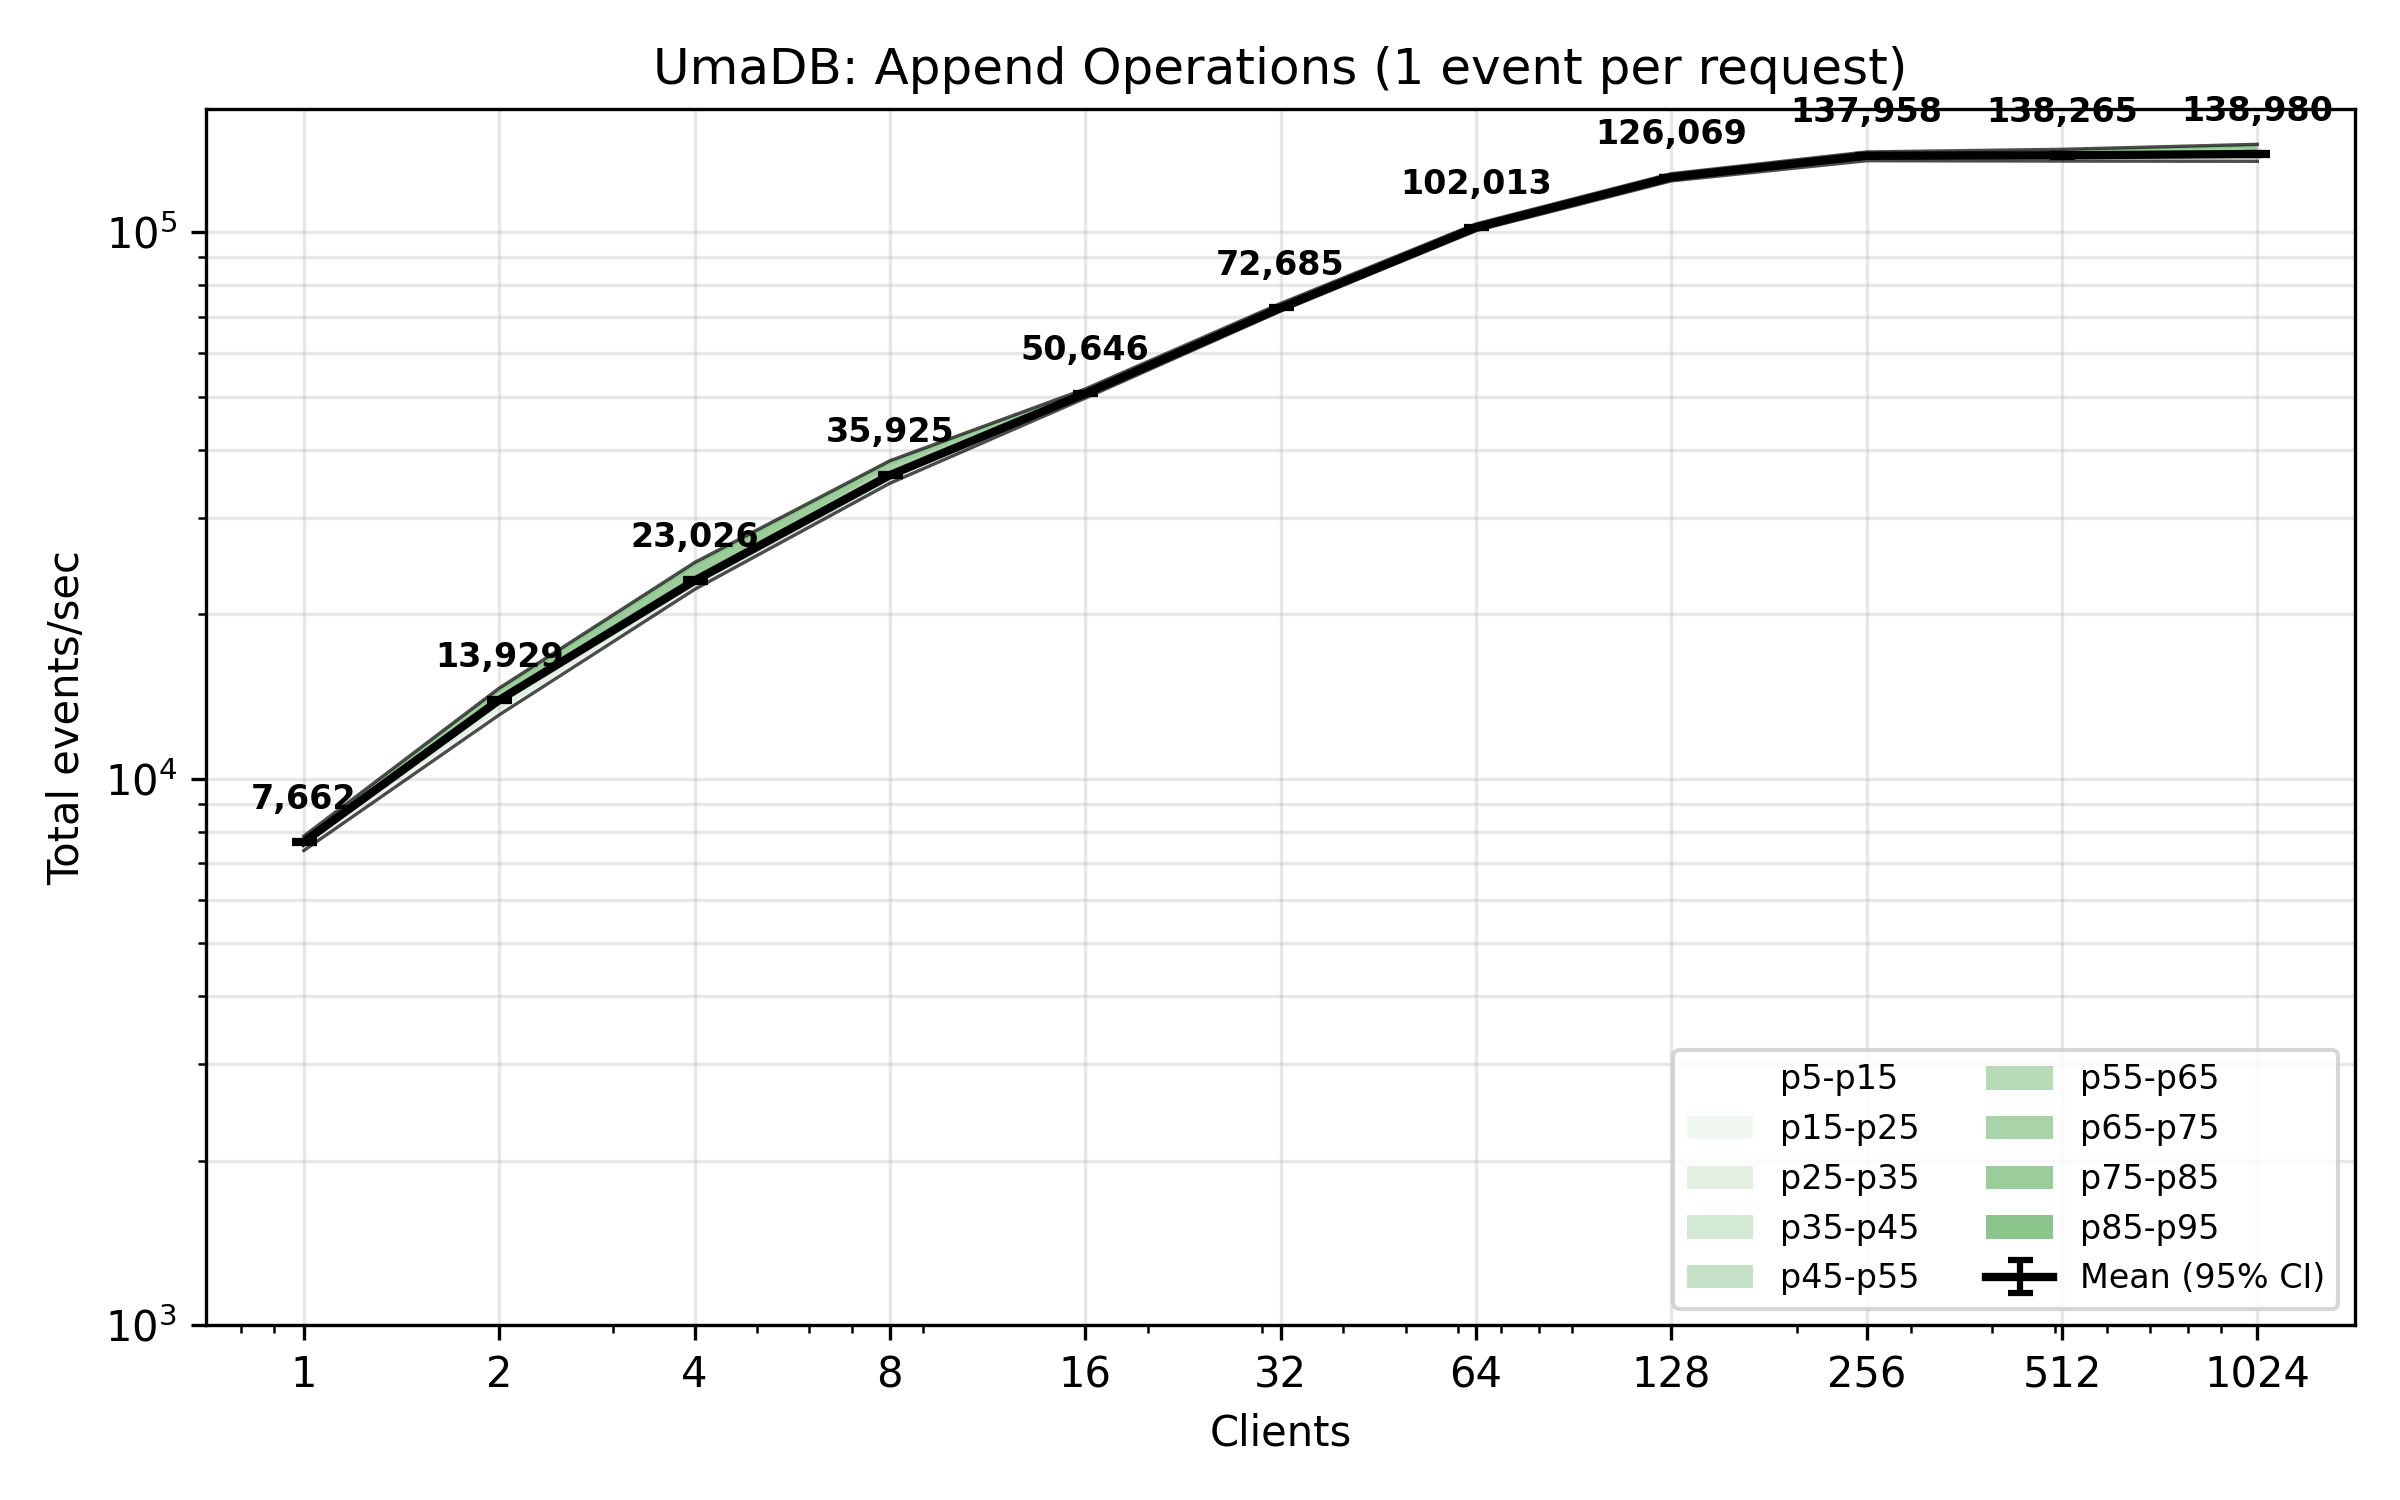
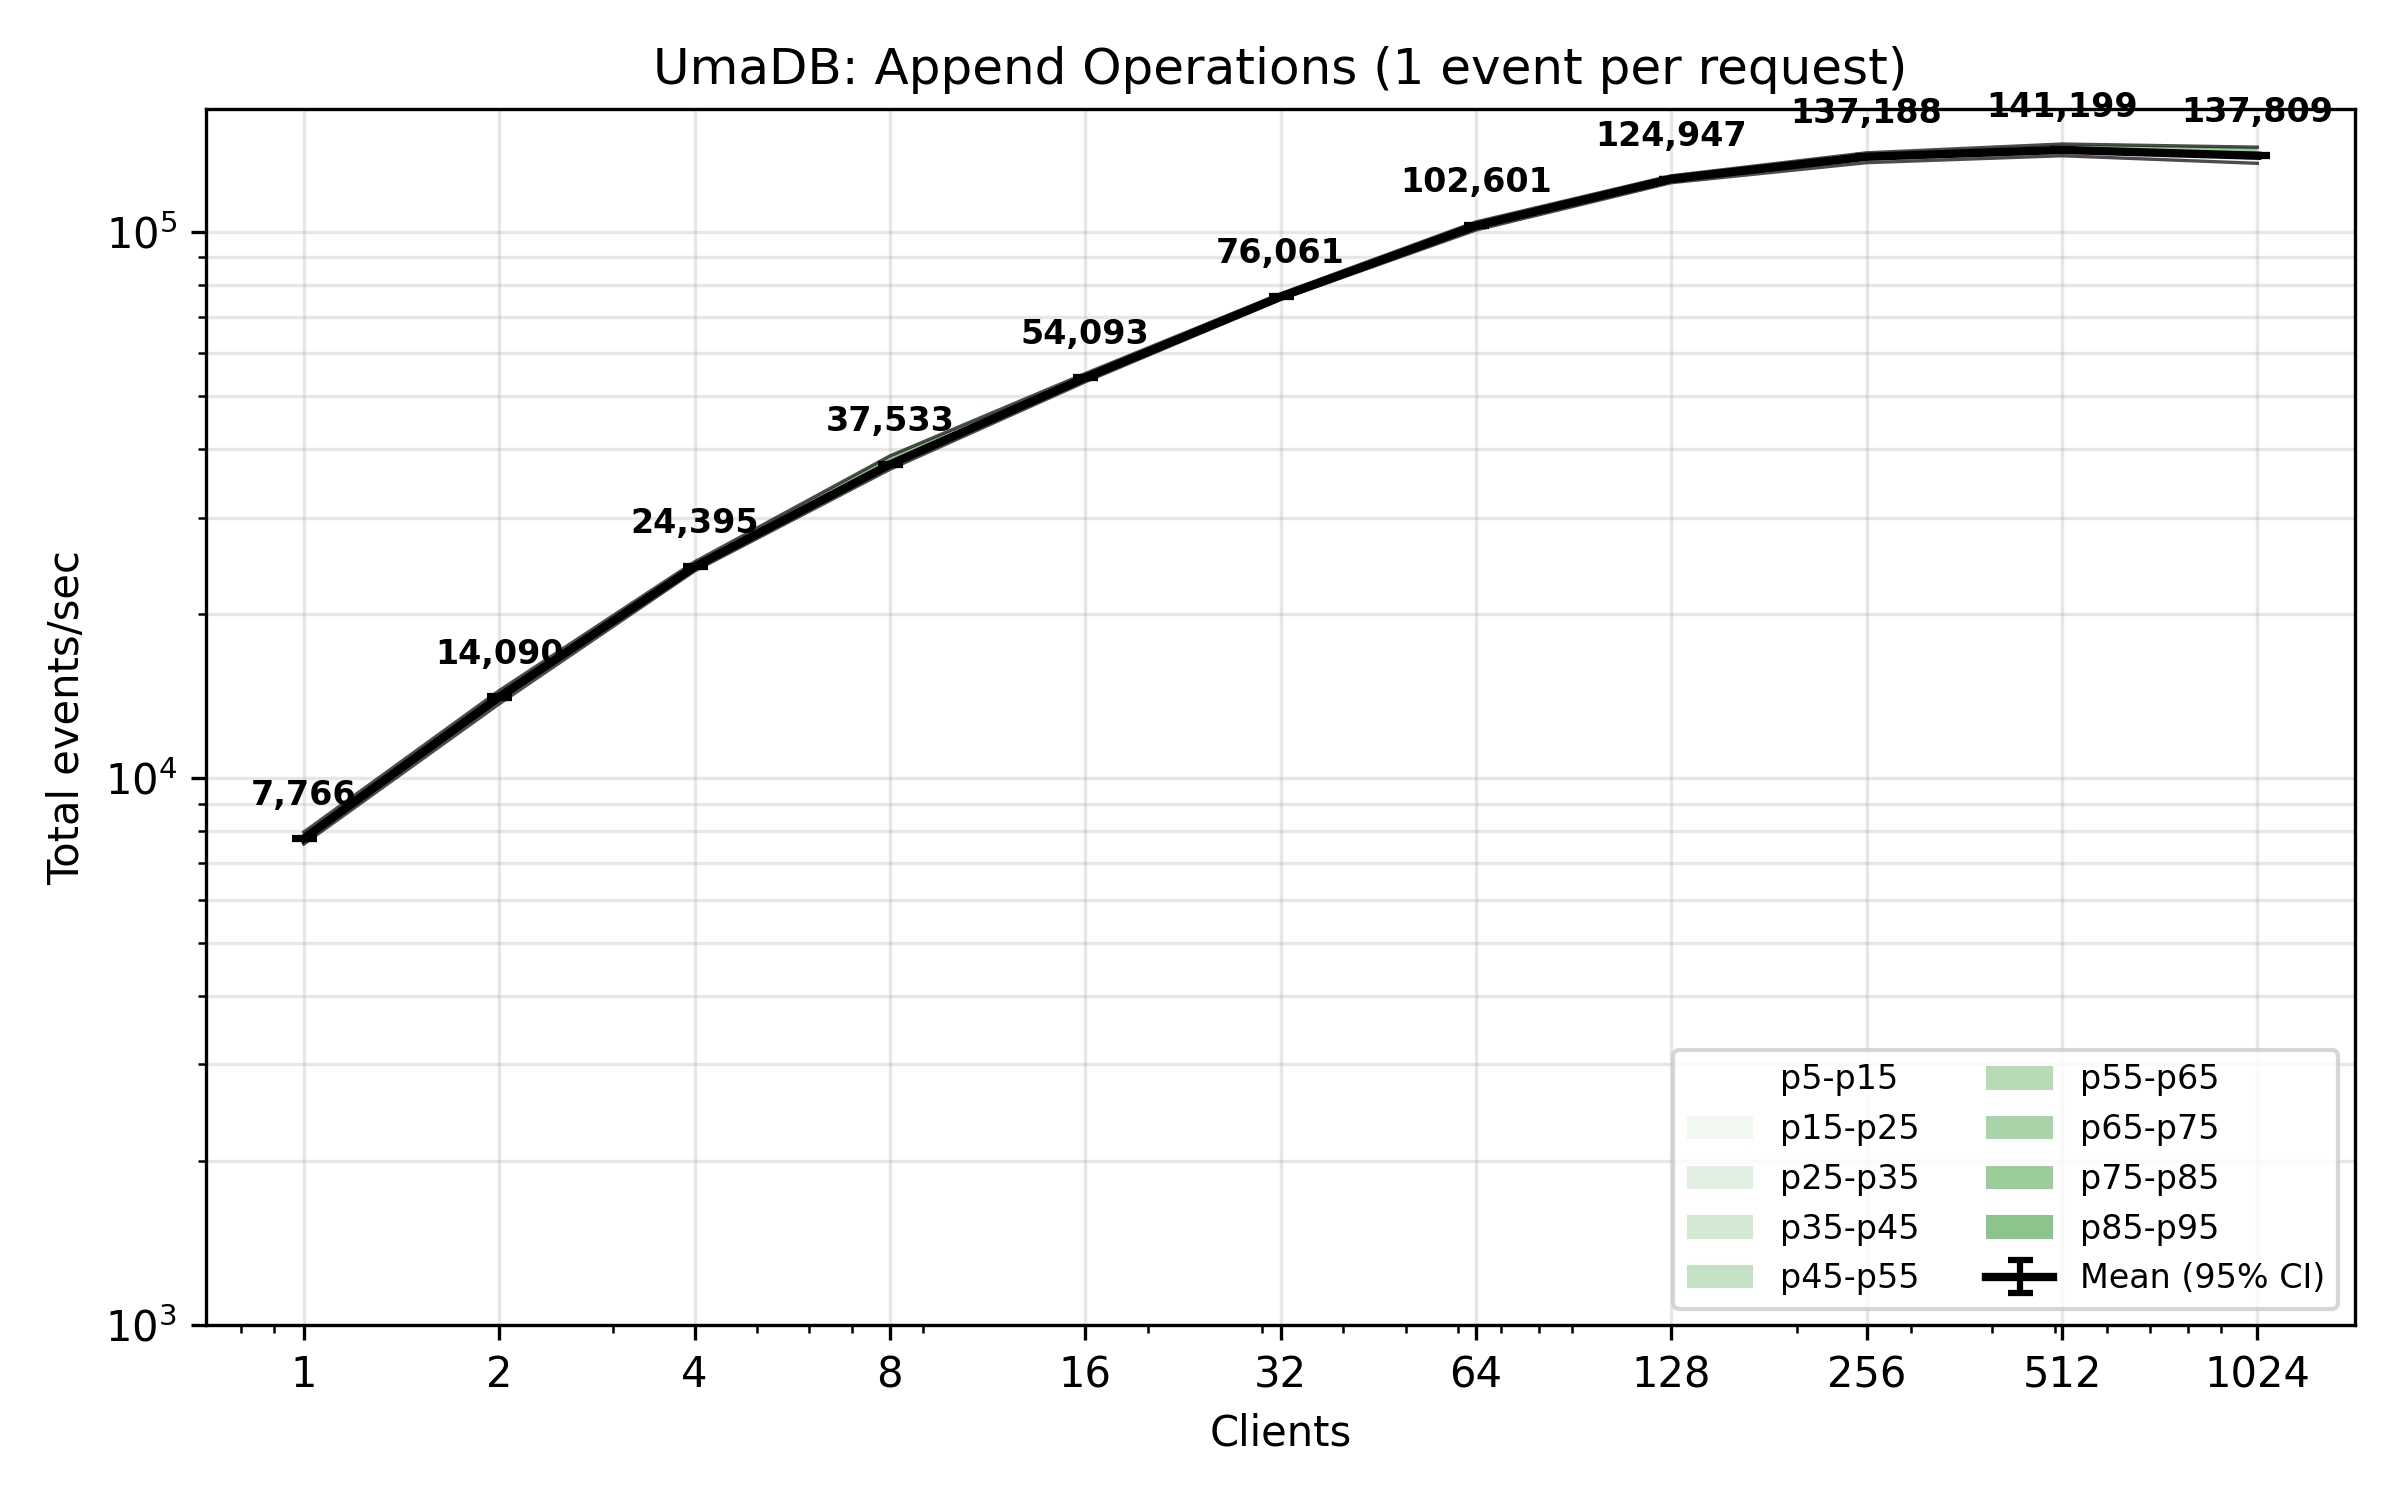
Updated benchmark plots after adjusting server and benchmark code.

diff --git a/docs/benchmarks.md b/docs/benchmarks.md
@@ -9,7 +9,7 @@ head:
 ---
 # Benchmarks
 
-## Hardware
+## Setup
 
 The benchmark plots below were produced on an Apple MacBook Pro M4 (10 performance cores and 4 efficiency cores),
 using the UmaDB Rust gRPC client to make gRPC requests to UmaDB gRPC server listening on `http://127.0.0.1:50051`.
@@ -17,12 +17,12 @@ using the UmaDB Rust gRPC client to make gRPC requests to UmaDB gRPC server list
 ## Conditional Append
 
 The benchmark plot below shows total appended events per second from concurrent clients. Each client is
-writing 1 event per request with an append condition. During low concurrency, the rate is limited
-by the fixed overhead of a durable commit transaction, which is amortized for concurrent requests
-by batching append requests. During high concurrency, the limiting factor becomes the
-actual volume of data being written.
+writing one event per request with an append condition. These are the kinds of requests that would be
+made by an application after a decision model has generated a new event.
 
-These are the kinds of requests that would be made by an application after a decision model has generated a new event.
+The database was pre-populated with 1,000,000 events. During low concurrency, the rate is limited by the fixed
+overhead of a durable commit transaction, which is amortized for concurrent requests by batching append requests.
+During high concurrency, the limiting factor becomes the actual volume of data being written.
 
 ![UmaDB benchmark](/images/UmaDB-append-bench-cond-1-per-request.png)
 
@@ -42,6 +42,7 @@ writing 100 events per request with an append condition.
 The benchmark plot below shows total appended events per second from concurrent clients. Each client
 is writing one event per request (no append condition). By comparison with the performance of the conditional
 append operations above, we can see evaluating the append condition doesn't affect performance very much.
+The database was pre-populated with 1,000,000 events.
 
 ![UmaDB benchmark](/images/UmaDB-append-bench-1-per-request.png)
 
@@ -63,7 +64,8 @@ is writing 1000 events per request (no append condition).
 ## Conditional Read
 
 The benchmark plot below shows total events received per second across concurrent client read operations, whilst clients
-are selecting all events for one tag from a population of 10,000 tags, each of which has 20 recorded events.
+are selecting all events for one tag from a population of 100,000 tags, each of which has 10 recorded events distributed
+evenly across the total sequence.
 
 This is the kind of reading that might happen whilst building a decision model from which new events are generated.
 
